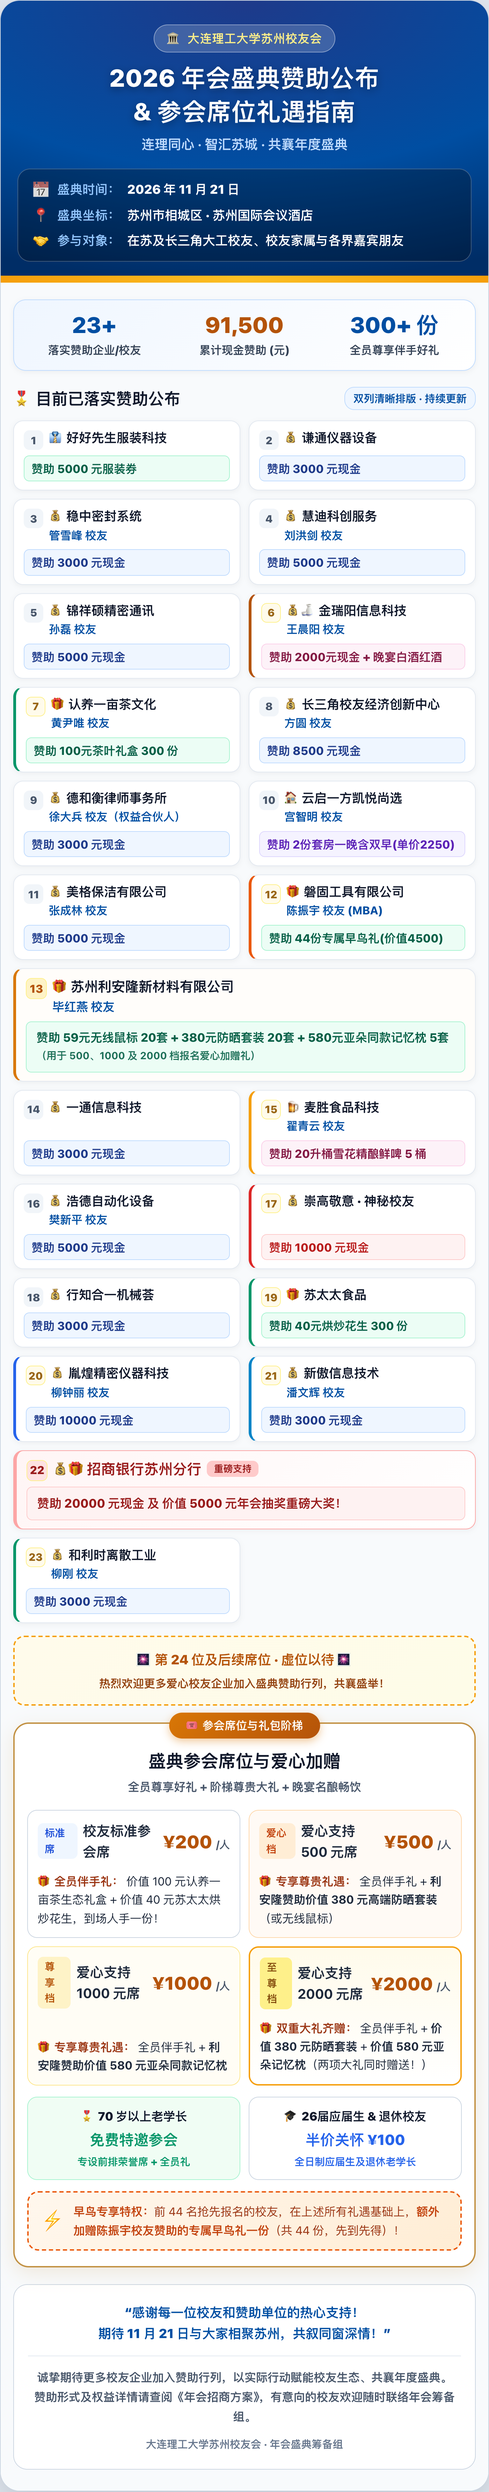
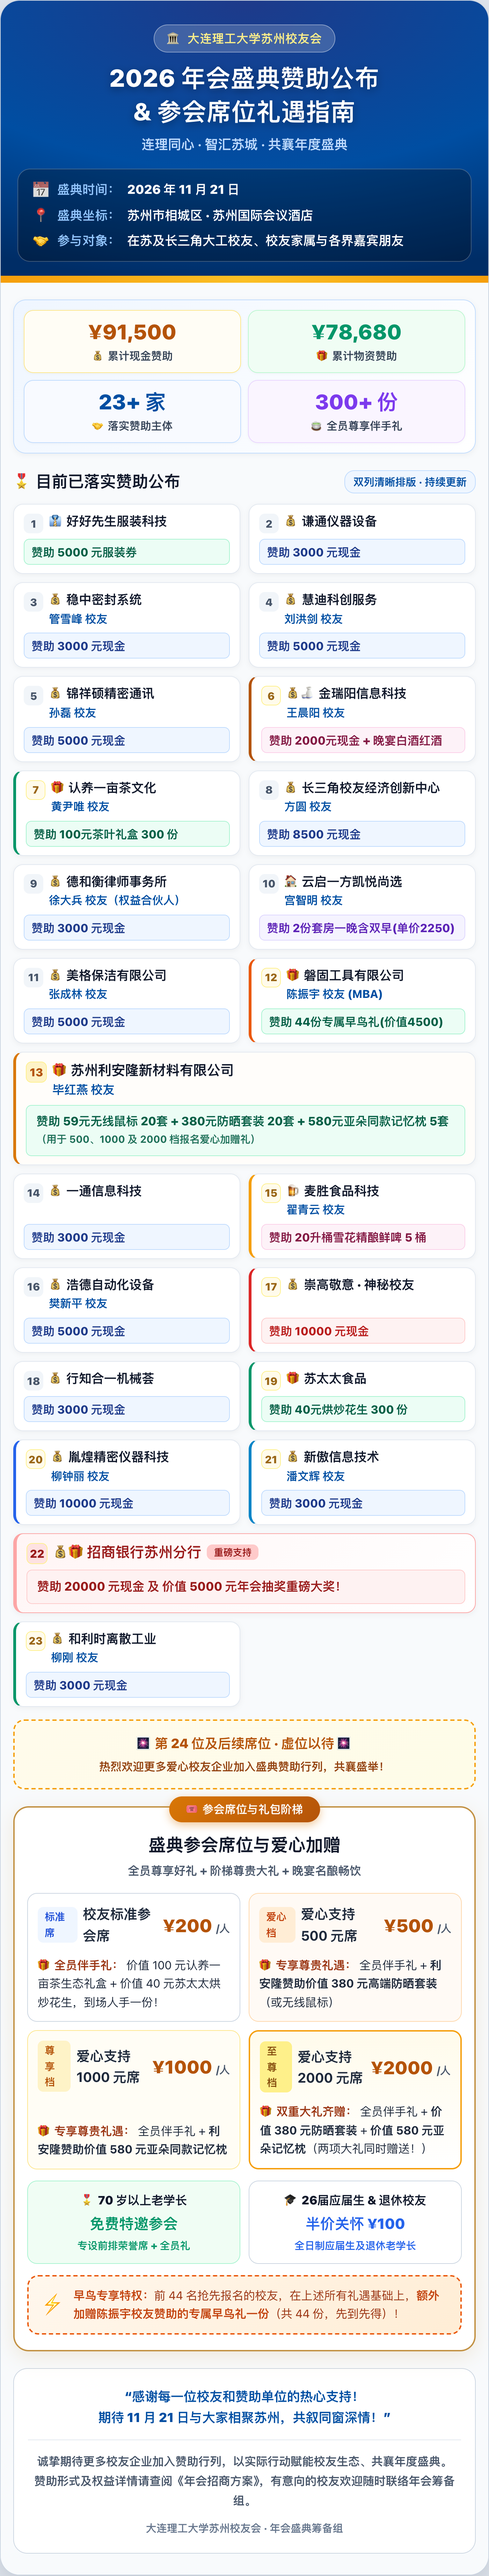
feat: 在年会海报核心看板中增加累计物资赞助78,680元数据

Changed region(s): [[0.0, 0.0, 1.0, 0.9972], [0.7371, 0.0, 0.7679, 0.0312], [0.0921, 0.8725, 0.1229, 0.9037]]

diff --git a/public/annual-gala-notice.html b/public/annual-gala-notice.html
@@ -153,30 +153,64 @@
       background: #f8fafc;
     }
 
-    /* 赞助数据 3 宫格微型看板 */
+    /* 赞助数据 4 宫格微型看板 (现金 + 物资 双核驱动) */
     .stats-card {
       background: linear-gradient(135deg, #eff6ff 0%, #ffffff 100%);
       border: 1.5px solid #bfdbfe;
       border-radius: 18px;
-      padding: 16px 12px;
+      padding: 14px;
       margin-bottom: 22px;
       display: grid;
-      grid-template-columns: 1fr 1fr 1fr;
-      gap: 8px;
+      grid-template-columns: 1fr 1fr;
+      gap: 10px;
       text-align: center;
       box-shadow: var(--shadow-sm);
     }
+    .stats-item {
+      background: #ffffff;
+      border: 1px solid #e2e8f0;
+      border-radius: 14px;
+      padding: 12px 10px;
+      display: flex;
+      flex-direction: column;
+      justify-content: center;
+      box-shadow: 0 1px 4px rgba(0, 0, 0, 0.03);
+    }
+    .stats-item.gold {
+      background: #fffdf5;
+      border-color: #fde68a;
+    }
+    .stats-item.emerald {
+      background: #f0fdf4;
+      border-color: #bbf7d0;
+    }
+    .stats-item.blue {
+      background: #f8faff;
+      border-color: #bfdbfe;
+    }
+    .stats-item.purple {
+      background: #faf5ff;
+      border-color: #e9d5ff;
+    }
     .stats-item .num {
-      font-size: 32px;
+      font-size: 30px;
       font-weight: 900;
-      color: var(--blue-main);
       line-height: 1.2;
     }
     .stats-item.gold .num {
       color: #b45309;
     }
+    .stats-item.emerald .num {
+      color: #059669;
+    }
+    .stats-item.blue .num {
+      color: var(--blue-main);
+    }
+    .stats-item.purple .num {
+      color: #7c3aed;
+    }
     .stats-item .lbl {
-      font-size: 16px;
+      font-size: 15.5px;
       color: var(--text-muted);
       font-weight: 800;
       margin-top: 4px;
@@ -563,19 +597,23 @@
     <!-- 核心主体内容 -->
     <main class="content-body">
 
-      <!-- 赞助数据 3 宫格看板 -->
+      <!-- 赞助数据 4 宫格看板 (现金 + 物资 双核驱动) -->
       <div class="stats-card">
-        <div class="stats-item">
-          <div class="num">23+</div>
-          <div class="lbl">落实赞助企业/校友</div>
-        </div>
         <div class="stats-item gold">
-          <div class="num">91,500</div>
-          <div class="lbl">累计现金赞助 (元)</div>
+          <div class="num">¥91,500</div>
+          <div class="lbl">💰 累计现金赞助</div>
         </div>
-        <div class="stats-item">
+        <div class="stats-item emerald">
+          <div class="num">¥78,680</div>
+          <div class="lbl">🎁 累计物资赞助</div>
+        </div>
+        <div class="stats-item blue">
+          <div class="num">23+ 家</div>
+          <div class="lbl">🤝 落实赞助主体</div>
+        </div>
+        <div class="stats-item purple">
           <div class="num">300+ 份</div>
-          <div class="lbl">全员尊享伴手好礼</div>
+          <div class="lbl">🍵 全员尊享伴手礼</div>
         </div>
       </div>
 
